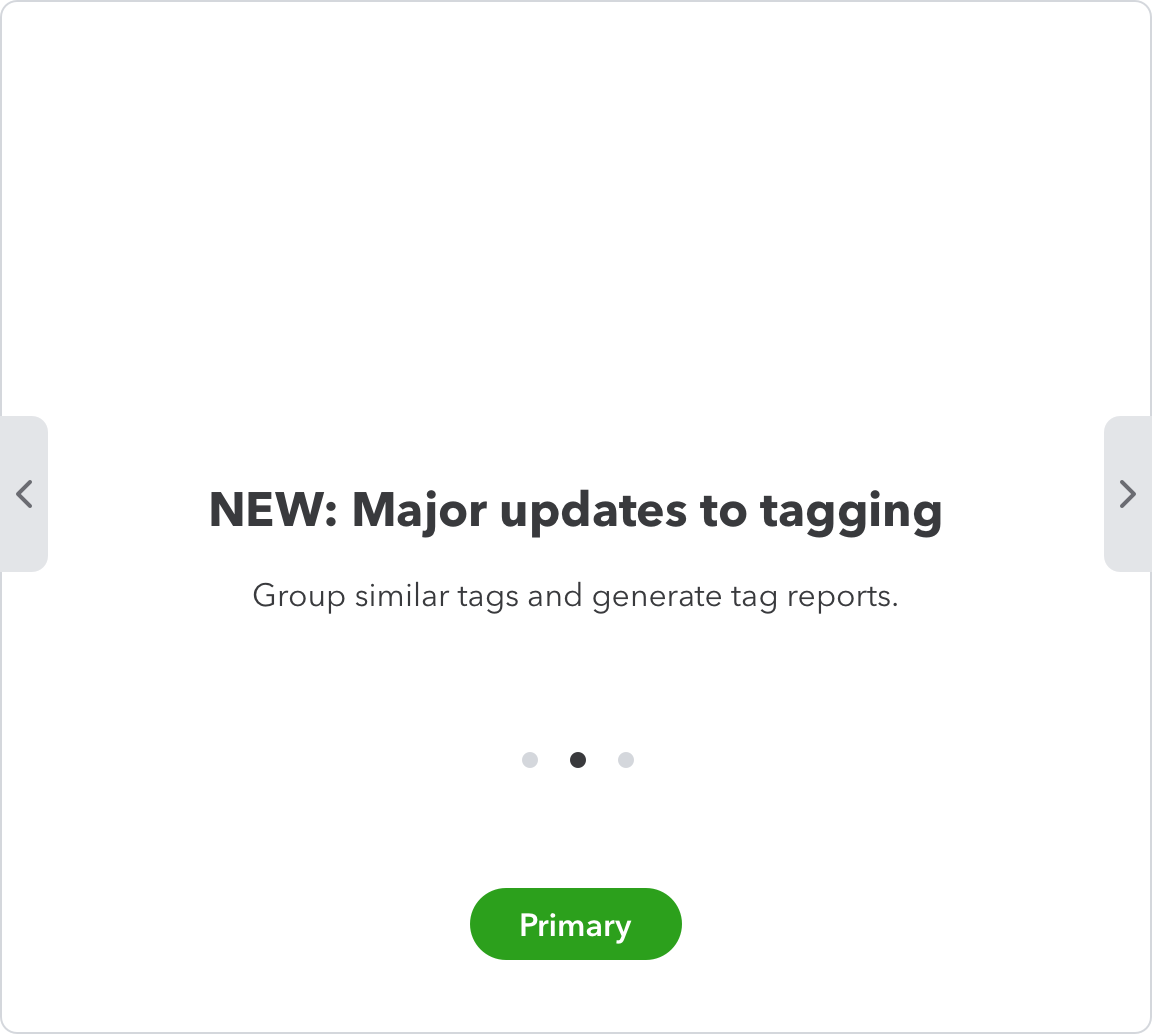
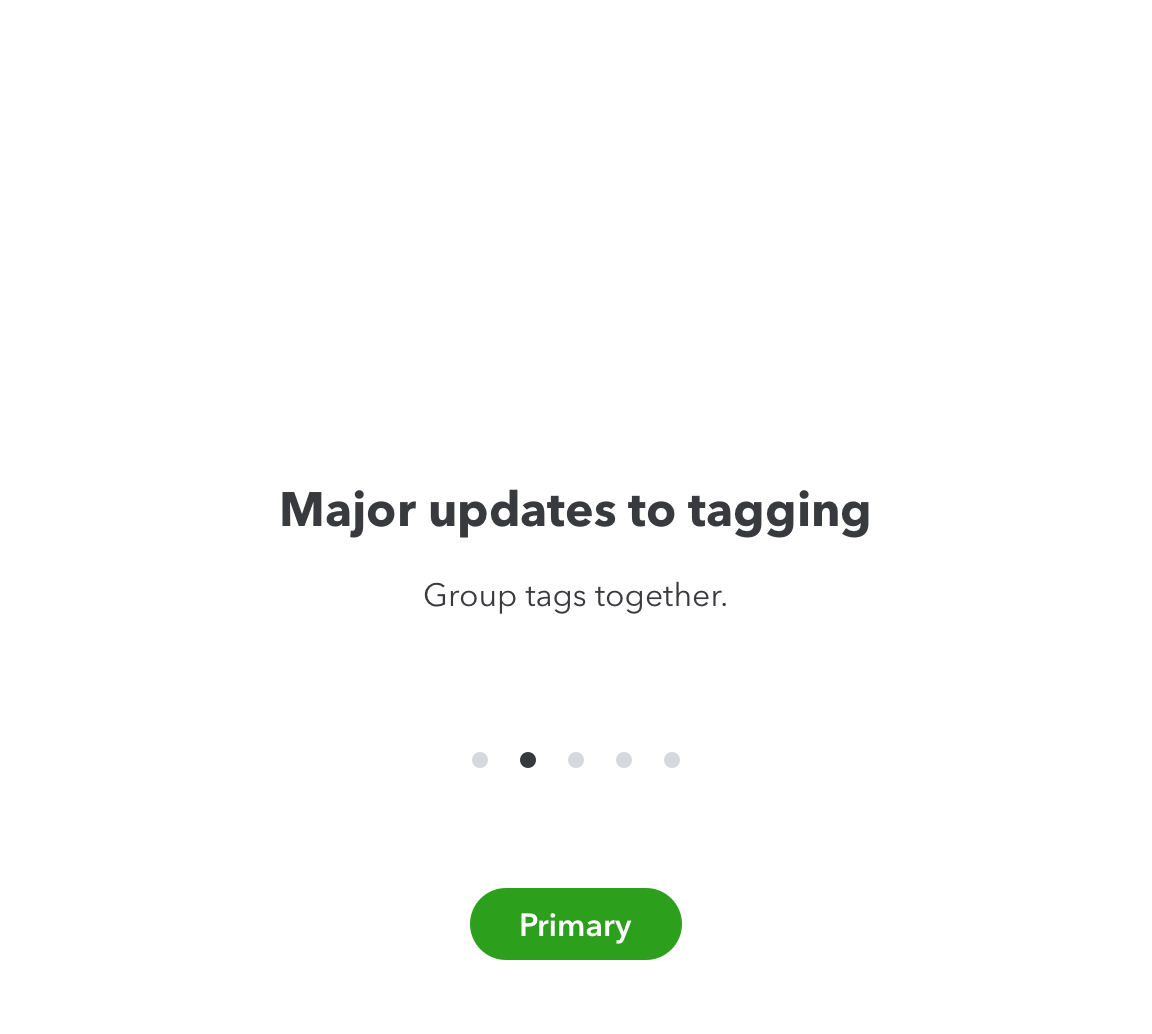
change canvas

diff --git a/style.css b/style.css
@@ -4,7 +4,6 @@
   height: 100%;
   display: block;
   overflow: hidden;
-  transform: translate3d(0, 0, 0);
   text-align: center;
   opacity: 1;
   margin: 0 auto;
@@ -15,13 +14,15 @@
   overflow: hidden;
   visibility: hidden;
   position: relative;
-  width: 100%;
-  max-width: 500px;
-  /* border-style: solid; */
-  /* border-color: rgb(110, 110, 110, 0.3); */
-  /* border-width: 1px; */
-  margin: 0px auto;
-  padding: 100px 0px;
+  /* height: 100%; */
+  width: 500px;
+  height: 445px;
+  border-style: solid;
+  border-color: #d4d7dc;
+  border-width: 1px;
+  border-radius: 8px;
+  margin: 100px auto;
+  /* padding: 100px 0px; */
 }
 
 .swipe-wrap {

diff --git a/index.html b/index.html
@@ -115,6 +115,7 @@
         continuous: false,
         disableScroll: true,
         stopPropagation: true,
+        ignore: ".test",
         callback: function (index, element) {
           list[index].stop();
           setTimeout(() => {
